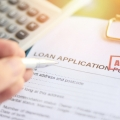
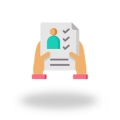
commit

diff --git a/public/css_folder/style.css b/public/css_folder/style.css
@@ -301,11 +301,7 @@ line-height: 25px;
     /* font-family: Georgia, "Times New Roman", serif; */
     font-weight: 600;
     color: var(--teal);
-<<<<<<< HEAD
     width: 450px;
-=======
-    width: 480px;
->>>>>>> 29c65f7c9609f7f6d2edfc61ee5874b9138c5f5b
 }
 
 .main-text .slide h2 em {
@@ -750,6 +746,7 @@ line-height: 25px;
 
 .how-it-works-parent {
     padding: 10rem 2rem;
+    background-color: var(--lavender-tint);
 }
 
 .how-it-works-parent .how-it-works .how-it-works-header .how-it-card-tag {
@@ -798,8 +795,20 @@ line-height: 25px;
 .how-it-works-parent .how-it-works .how-it-works-body {
     display: grid;
     grid-template-columns: repeat(3, 1fr);
-    gap: 30px;
+    gap: 40px;
     margin-top: 4rem;
+    position: relative;
+}
+
+.how-it-works-parent .how-it-works .how-it-works-body .how-it-line {
+    position: absolute;
+    top: 50px; /* vertical center of the 100px icon box */
+    left: 60px;
+    right: 60px;
+    /* width: 100%; */
+    height: 0;
+    border-top: 2px dashed var(--blue-pale);
+    z-index: 0;
 }
 
 .how-it-works-parent .how-it-works .how-it-works-body .work-card{
@@ -807,27 +816,39 @@ line-height: 25px;
     justify-content: center;
     align-items: center;
     flex-direction: column;
-    gap: 20px;
+    gap: 12px;
+    position: relative;
+    z-index: 1;
 }
 
-.how-it-works-parent .how-it-works .how-it-works-body .work-card .border{
-    width: 120px;
-    height: 120px;
-    border: 1px solid black;
+.how-it-works-parent .how-it-works .how-it-works-body .work-card .word-card-icon{
+    width: 100px;
+    height: 100px;
     border-radius: 7px;
+    box-shadow: var(--shadow);
+}
+
+.how-it-works-parent .how-it-works .how-it-works-body .work-card .word-card-icon img{
+    width: 100px;
+    height: 100px;
+    border-radius: 7px;
+    box-shadow: var(--shadow);
 }
 
 .how-it-works-parent .how-it-works .how-it-works-body .work-card h3{
-    font-size: 20px;
-    margin: 0;
+    font-size: 19px;
+    margin: 25px 0 0;
+    font-weight: 600;
 }
 
 .how-it-works-parent .how-it-works .how-it-works-body .work-card p{
     text-align: center;
-    font-size: 15px;
+    font-size: 14.5px;
     margin: 0;
     width: 100%;
-    max-width: 400px;
+    max-width: 350px;
+    line-height: 27px;
+    color: var(--muted);
 }
 
 #section1 {
@@ -1217,7 +1238,7 @@ line-height: 25px;
     /* background-color: var(--green); */
     /* background-color: #ffffff; */
     /* background-color: var(--deep2); */
-    background-color: var(--lavender-tint);
+    /* background-color: var(--lavender-tint); */
     padding-bottom: 4rem;
     padding-top: 4rem;
     position: relative;
@@ -1909,7 +1930,7 @@ hr {
     /* background-color: var(--lavender-tint); */
     /* padding-bottom: 5rem;
     padding-top: 5rem; */
-    padding: 5rem 2rem 5rem 2rem;
+    padding: 8rem 2rem 8rem 2rem;
     /* margin-top: 4.5rem; */
     position: relative;
     overflow: hidden;
@@ -2008,12 +2029,54 @@ hr {
     height: 100%;
     max-width: 50%; */
     /* padding: 3rem; */
+    position: relative;
+
+    .how-many-years{
+        position: absolute;
+        bottom: -40px;
+        display: inline-flex;
+        align-items: center;
+        gap: 12px;
+        background-color: #ffffff;
+        padding: 25px 20px;
+        border-radius: 10px;
+        box-shadow: 0 18px 40px -12px rgba(19, 26, 48, .28);
+    }
+
+    .how-many-years .years-icon{
+        width: 48px;
+        height: 48px;
+        border-radius: 7px;
+        display: flex;
+        justify-content: center;
+        align-items: center;
+        background-color: var(--blue-mist);
+    }
+
+    .how-many-years .years-icon .fa{
+        font-size: 20px;
+        color: var(--blue);
+    }
+
+    .how-many-years .years-text p{
+        margin: 0;
+        font-size: 26px;
+        font-weight: 600;
+        color: var(--teal);
+        font-family: Georgia, "Times New Roman", serif;
+    }
+
+    .how-many-years .years-text span{
+        font-size: 12.5px;
+        color: var(--muted);
+    }
 }
+
 
 #section3 .section-image .border {
     width: 550px;
     height: 532px;
-    border: 1px solid black;
+    /* border: 1px solid black; */
 }
 
 #section3 .section-image img {

diff --git a/public/css_folder/loading.css b/public/css_folder/loading.css
@@ -50,6 +50,7 @@
     --savings-bg: #e4edff;
     --shadow: 0 2px 12px rgba(30, 42, 74, 0.08);
     --lavender-tint: #F7F8FC;
+    --shadow: 0 2px 12px rgba(30, 42, 74, 0.08);
 
     --ice-blue: #E8F4FD;
     --gold-pale: #FFF8EC;

diff --git a/resources/views/landingpage_components/index.blade.php b/resources/views/landingpage_components/index.blade.php
@@ -465,6 +465,16 @@
                 <div class="section-image reveal reveal-delay-1">
                     <!-- <img src="images/benefits.jpg" alt=""> -->
                     <img src="images/about-us.jpg" alt="">
+
+                    <div class="how-many-years">
+                        <div class="years-icon">
+                            <i class="fa fa-chart-simple"></i>
+                        </div>
+                        <div class="years-text">
+                            <p>20+ yrs</p>
+                            <span>Serving members & drivers</span>
+                        </div>
+                    </div>
                 </div>
                 <div class="section-text reveal reveal-delay-2">
                     <div class="header">
@@ -552,28 +562,29 @@
                     <h2>How to <b>Simulate</b> Loans with KPMPCATS?</h2>
                 </div>
                 <div class="how-it-works-body">
+                    <div class="how-it-line"></div>
                     <div class="work-card">
-                        <div class="border">
-                            <img src="images/loanproduct.jpg" alt="">
+                        <div class="word-card-icon">
+                            <img src="images/choose-product.jpg" alt="">
                         </div>
                         <h3>Choose a Loan Product</h3>
-                        <p>Select the loan that best fits your financial needs and review its features, terms, and repayment options before applying with confidence.</p>
+                        <p>Select the loan that best fits your financial needs and review its terms and repayment options. Compare interest rates and eligibility requirements carefully. Apply with confidence.</p>
                     </div>
 
                     <div class="work-card">
-                        <div class="border">
+                        <div class="word-card-icon">
                             <img src="images/submit.jpg" alt="">
                         </div>
                         <h3>Submit Your Application</h3>
-                        <p>Complete the application form and submit the required information and documents for review, verification, and approval by the cooperative.</p>
+                        <p>Complete the application form and submit the required documents for review. Ensure all details provided are accurate and up to date. Our team will verify your submission promptly.</p>
                     </div>
 
                     <div class="work-card">
-                        <div class="border">
-                            <img src="images/approve.jpg" alt="">
+                        <div class="word-card-icon">
+                            <img src="images/receive.jpg" alt="">
                         </div>
                         <h3>Receive Approval & Funds</h3>
-                        <p>After approval, your loan will be processed and the funds will be released according to the cooperative's procedures and loan policies.</p>
+                        <p>After approval, your loan will be processed without delay. Funds will be released through your chosen disbursement method, following the cooperative's established loan policies.</p>
                     </div>
                 </div>
             </div>